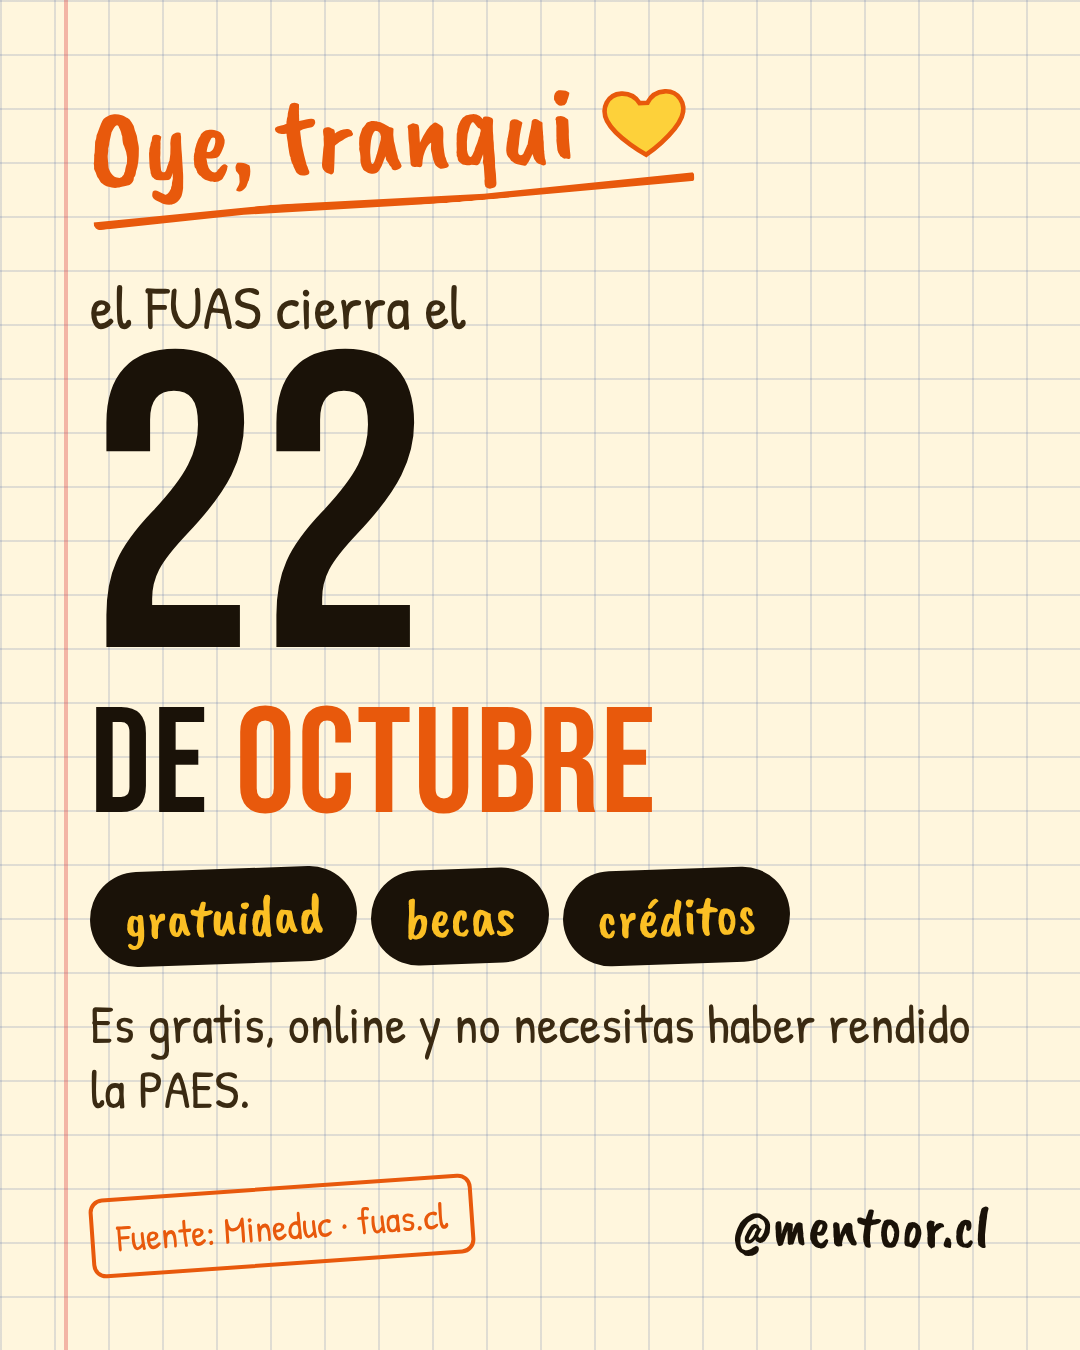
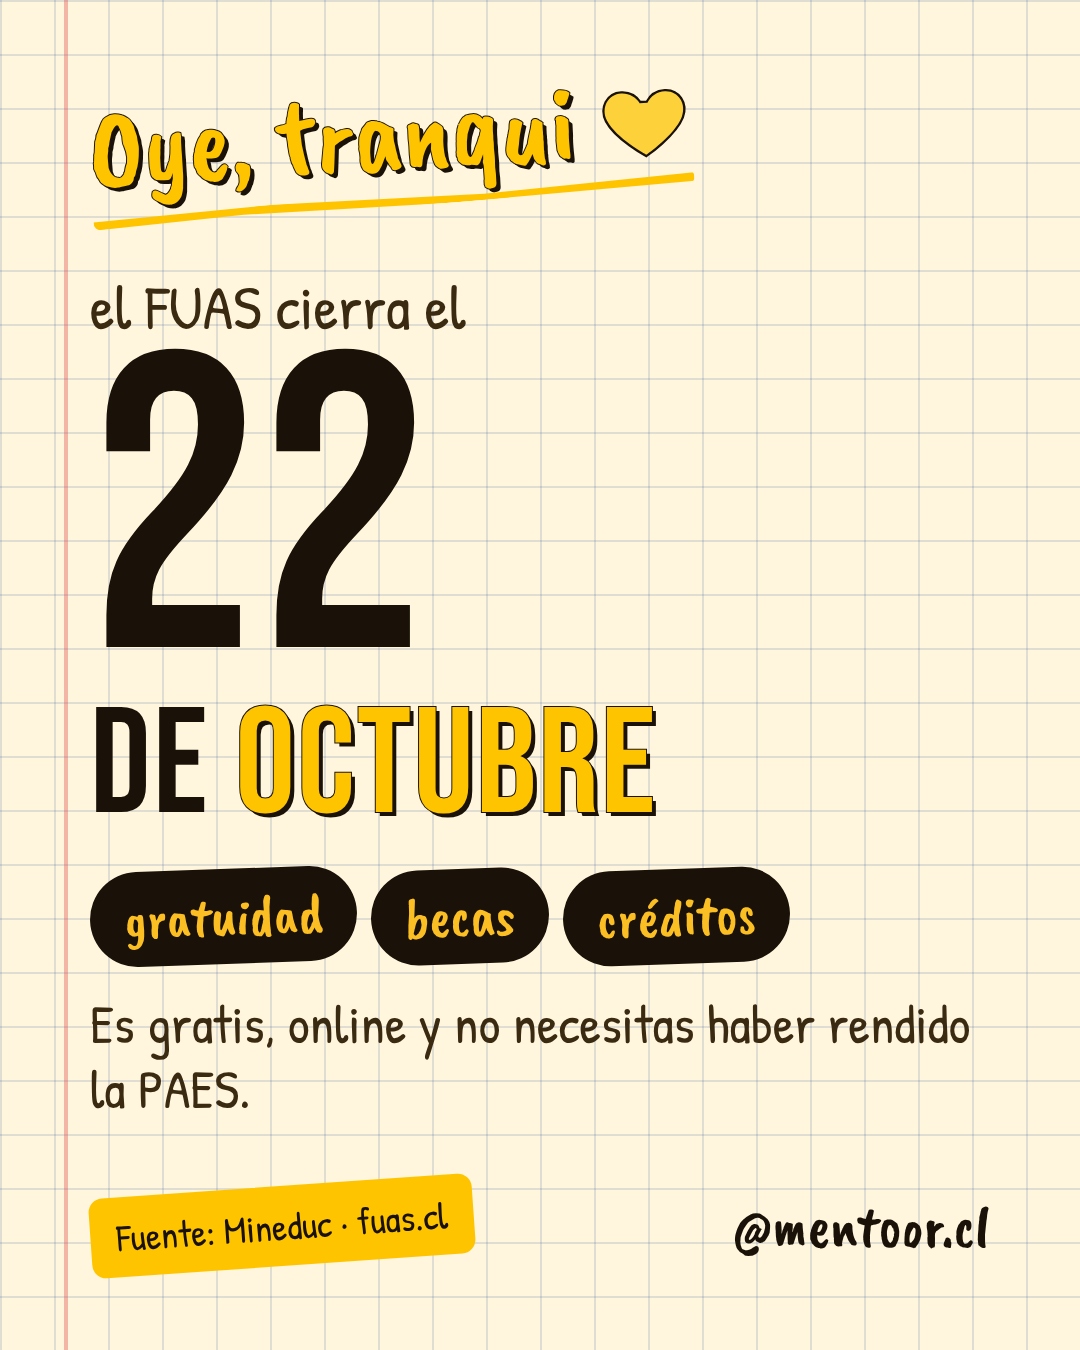
Post ensayos 11-oct en estilo hoja de cuaderno
Claude-Session: https://claude.ai/code/session_01XxgZETQjNe2fZRLkA2Ldqu

Changed region(s): [[0.2139, 0.4978, 0.6111, 0.6222], [0.0611, 0.0622, 0.6417, 0.1867], [0.0611, 0.8711, 0.4583, 0.9644]]

diff --git a/templates/amiga-progreso-cuaderno.html b/templates/amiga-progreso-cuaderno.html
@@ -1,0 +1,11 @@
+<!doctype html><html lang="es"><head><meta charset="utf-8"><link rel="stylesheet" href="../brand/estilo-amiga.css"></head><body>
+<div class="a cuaderno" id="m3">
+<div class="gancho p">¿Llevas registro<br>de tus ensayos?</div>
+<div style="display:flex;gap:30px;margin-top:60px;align-items:center">
+<div style="flex:1"><div class="resp m" style="font-size:150px">¿Cuánto<br>llevas?</div>
+<div class="det" style="margin-top:30px;font-size:54px">Mira tu último puntaje, tu mejor resultado y tu meta. Así sabes qué subir primero <svg class="corazon" viewBox="0 0 24 24"><path fill="#FDD13A" stroke="#1A1208" stroke-width="1.2" d="M12 21s-7.5-4.6-9.6-9.2C.9 8.4 3 5 6.4 5c2 0 3.7 1.1 4.6 2.7h2C13.900 6.100 15.600 5 17.600 5 21 5 23.100 8.400 21.600 11.800 19.500 16.400 12 21 12 21z"/></svg></div></div>
+<div class="cel"><div class="t">Mis ensayos</div>
+<div class="r"><span>Comp. Lectora</span><i class="v">712</i></div><div class="r"><span>Matemática 1</span><i class="v">648</i></div><div class="r"><span>Ciencias</span><i class="v">690</i></div><div class="r"><span>Meta</span><i class="v" style="color:#FBBF24">750</i></div></div></div>
+<div class="firma"><div class="det" style="font-size:48px">Pruébalo gratis en Mentoor</div><div class="url">mentoor.cl</div></div>
+<div class="demo">Datos de demostración</div>
+</div></body></html>

diff --git a/templates/render-progreso.js b/templates/render-progreso.js
@@ -1,0 +1,8 @@
+const { chromium } = require('playwright');
+(async () => {
+  const b = await chromium.launch();
+  const p = await b.newPage({ viewport: { width: 1080, height: 1350 } });
+  await p.goto('file://' + __dirname + '/amiga-progreso-cuaderno.html'); await p.waitForTimeout(900);
+  await p.locator('#m3').screenshot({ path: 'out/post-progreso.png' });
+  await b.close();
+})();
